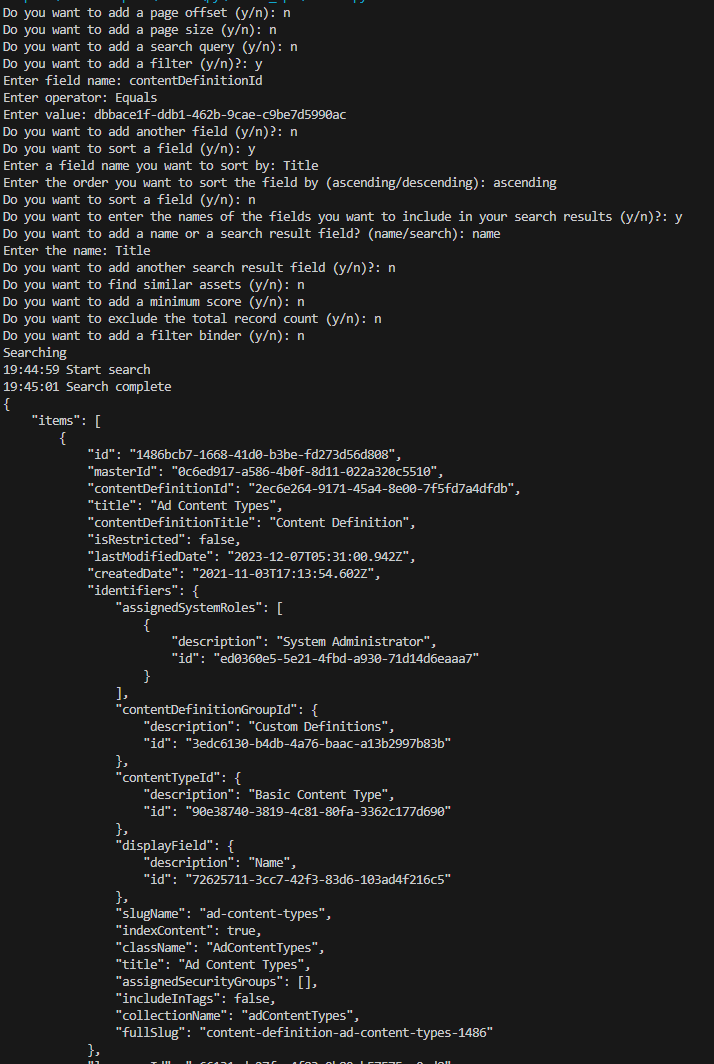
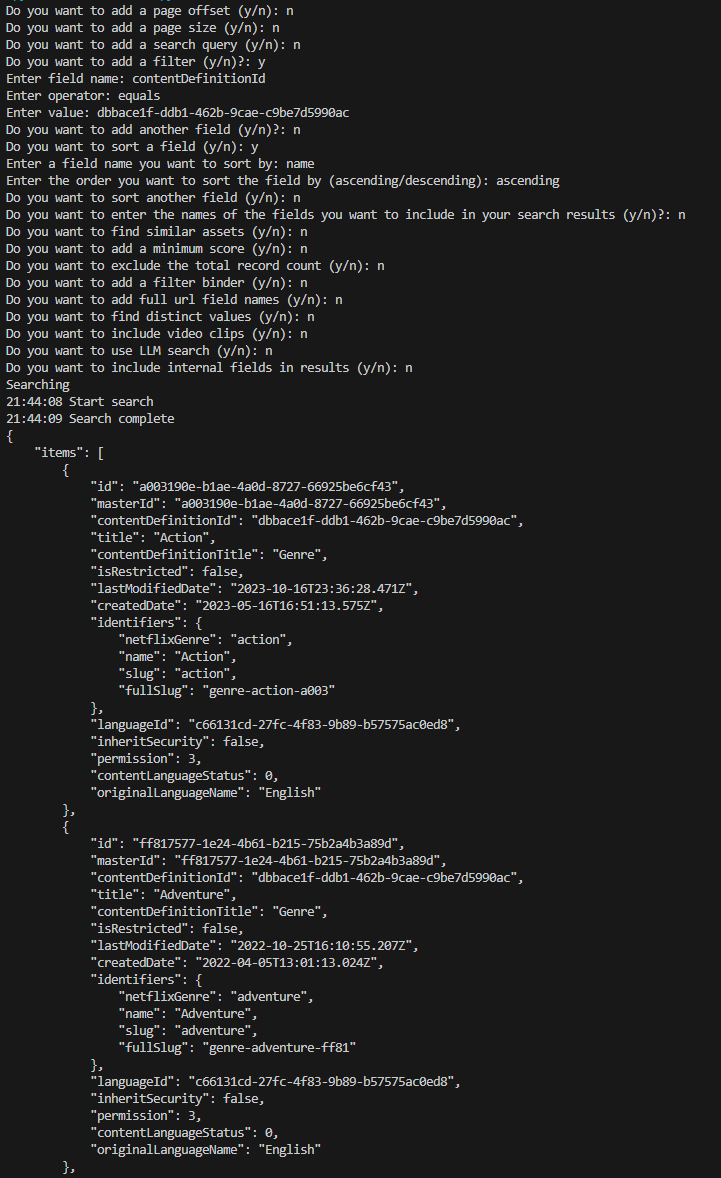
updated sample

diff --git a/search/search.py b/search/search.py
@@ -1,4 +1,4 @@
-from nomad_media_pip.nomad_sdk import Nomad_SDK
+from nomad_media_pip.src.nomad_sdk import Nomad_SDK
 from config import config
 
 nomad_sdk = Nomad_SDK(config)
@@ -9,10 +9,10 @@ import json
 
 def search():
     try:
-        PAGE_OFFSET = input("Enter page offset: ") if input("Do you want to add a page offset (y/n): ") == "y" else ""
-        PAGE_SIZE = input("Enter page size: ") if input("Do you want to add a page size (y/n): ") == "y" else ""
+        PAGE_OFFSET = input("Enter page offset: ") if input("Do you want to add a page offset (y/n): ") == "y" else None
+        PAGE_SIZE = input("Enter page size: ") if input("Do you want to add a page size (y/n): ") == "y" else None
 
-        SEARCH_QUERY = input("Enter a search query: ") if input("Do you want to add a search query (y/n): ") == "y" else ""
+        SEARCH_QUERY = input("Enter a search query: ") if input("Do you want to add a search query (y/n): ") == "y" else None
 
         FILTER_YN = True if input("Do you want to add a filter (y/n)?: ") == "y" else False
 
@@ -50,7 +50,7 @@ def search():
             FILTER = { 
                 "fieldName": FIELD_NAME,
                 "operator": OPERATOR,
-                "value": VALUE
+                "values": VALUE
             }
 
             FILTERS.append(FILTER)
@@ -60,7 +60,7 @@ def search():
 
         SORT_FIELDS = []
         while True:
-            if input("Do you want to sort a field (y/n): ") == "y":
+            if input(f"Do you want to sort a{"nother" if len(SORT_FIELDS) > 0 else ""} field (y/n): ") == "y":
                 SORT_FIELDS_NAME = input("Enter a field name you want to sort by: ")
                 SORT_FIELDS_ORDER = input("Enter the order you want to sort the field by (ascending/descending): ")
 
@@ -83,15 +83,25 @@ def search():
                 if input("Do you want to add another search result field (y/n)?: ") != "y":
                     break
 
-        SIMILAR_ASSET_ID = input("Enter an asset id to find similar assets: ") if input("Do you want to find similar assets (y/n): ") == "y" else ""
-        MIN_SCORE = input("Enter a minimum score: ") if input("Do you want to add a minimum score (y/n): ") == "y" else ""
+        SIMILAR_ASSET_ID = input("Enter an asset id to find similar assets: ") if input("Do you want to find similar assets (y/n): ") == "y" else None
+        MIN_SCORE = input("Enter a minimum score: ") if input("Do you want to add a minimum score (y/n): ") == "y" else None
         EXCLUDE_TOTAL_RECORD_COUNT = input("Do you want to exclude the total record count (y/n): ") == "y"
-        FILTER_BINDER = input("Enter a filter binder: ") if input("Do you want to add a filter binder (y/n): ") == "y" else ""
+        FILTER_BINDER = input("Enter a filter binder: ") if input("Do you want to add a filter binder (y/n): ") == "y" else None
+        FULL_URL_FIELD_NAMES = input("Enter full url field names (separate by commas): ") if input("Do you want to add full url field names (y/n): ") == "y" else None
+        DISTINCT_ON_FIELD_NAME = input("Enter a field name to find distinct values: ") if input("Do you want to find distinct values (y/n): ") == "y" else None
+        INCLUDE_VIDEO_CLIPS = input("Do you want to include video clips (y/n): ") == "y"
+        USE_LLM_SEARCH = input("Do you want to use LLM search (y/n): ") == "y"
+        INCLUDE_INTERNAL_FIELDS_IN_RESULTS = input("Do you want to include internal fields in results (y/n): ") == "y"
+
+        FULL_URL_FIELD_NAMES = FULL_URL_FIELD_NAMES.split(",") if FULL_URL_FIELD_NAMES else None
+        if INCLUDE_INTERNAL_FIELDS_IN_RESULTS != "y": INCLUDE_INTERNAL_FIELDS_IN_RESULTS = None
 
         print("Searching")
         CONTENT = nomad_sdk.search(SEARCH_QUERY, PAGE_OFFSET, PAGE_SIZE, FILTERS, 
-                                   SORT_FIELDS, RESULT_FIELDS, SIMILAR_ASSET_ID, MIN_SCORE,
-                                   EXCLUDE_TOTAL_RECORD_COUNT, FILTER_BINDER)
+            SORT_FIELDS, RESULT_FIELDS, FULL_URL_FIELD_NAMES, DISTINCT_ON_FIELD_NAME, 
+            INCLUDE_VIDEO_CLIPS, SIMILAR_ASSET_ID, MIN_SCORE, EXCLUDE_TOTAL_RECORD_COUNT, 
+            FILTER_BINDER, USE_LLM_SEARCH, INCLUDE_INTERNAL_FIELDS_IN_RESULTS)
+        
         print(json.dumps(CONTENT, indent=4))
     except:
         raise Exception()
